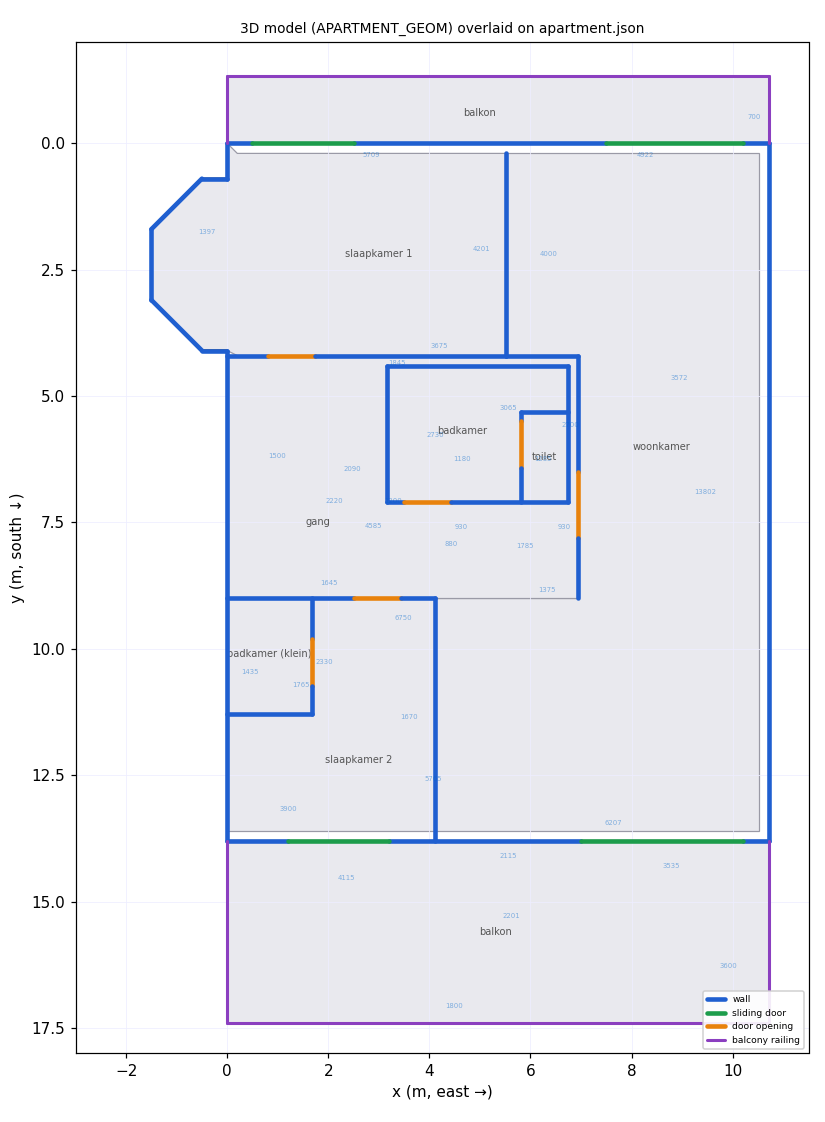
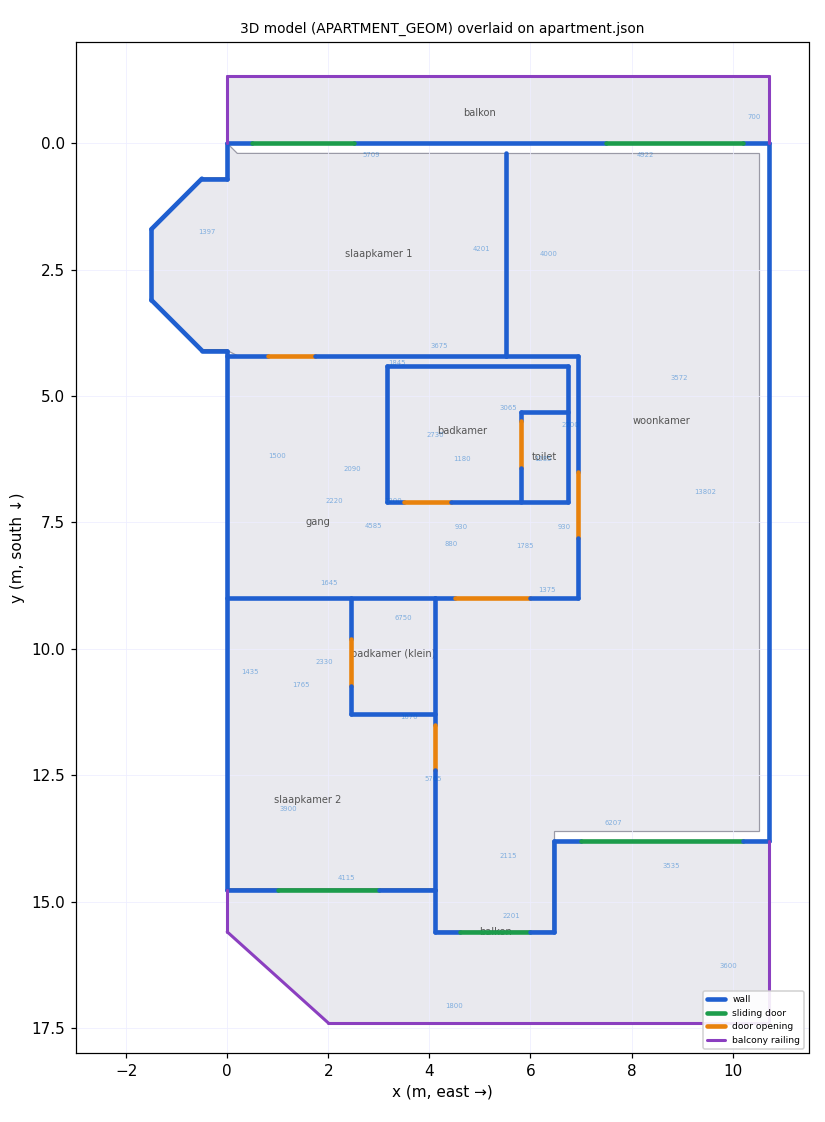
Rebuild south from owner's measurements: stepped facade, deeper slaapk2, east en-suite, trapezoid balcony with SW chamfer
Per owner feedback + numbers:
- Slaapkamer 2 = 4.115 x 5.765 m (deep "long part", to z=14.765).
- South facade is STEPPED: slaapk2 (z=14.765) + kitchen (z=15.60, ~1.8 m deeper
  than the 13.8 woonkamer); step near the kitchen island at x~6.46.
- En-suite (badkamer klein) moved to the NE corner of slaapk2 (x 2.445..4.115),
  beside the living-room door so the bathroom partly blocks it.
- Slaapk2 <-> living-room door in the x=4.115 wall; kitchen/gang opening at z=9.
- Balcony is now a trapezoid following the stepped facade, with the SW chamfer.
- Repositioned slaapk2/en-suite/kitchen lights, furniture and the painting.

Synced index.html (walls, ROOMS, floors, lights, furniture), render-floorplan.py
(envelope + room polygons) and apartment.json. plan-overlay PASS (60 segments /
106 endpoints within 0.05 m).

diff --git a/index.html b/index.html
@@ -246,16 +246,22 @@ const APARTMENT_GEOM = [
   { kind: 'sliding', x1:  7.50, z1:  0.00, x2: 10.20, z2:  0.00 }, // woonkamer
   // --- East facade (no openings)
   { kind: 'wall',    x1: 10.72, z1:  0.00, x2: 10.72, z2: 13.802 },
-  // --- South facade — sliding doors at slaapk2 (x∈[1.20,3.20]) and woonkamer (x∈[7.00,10.20])
-  { kind: 'wall',    x1: 10.72, z1: 13.802, x2: 10.20, z2: 13.802 },
-  { kind: 'wall',    x1:  7.00, z1: 13.802, x2:  3.20, z2: 13.802 },
-  { kind: 'wall',    x1:  1.20, z1: 13.802, x2:  0.00, z2: 13.802 },
-  { kind: 'sliding', x1:  7.00, z1: 13.802, x2: 10.20, z2: 13.802 }, // woonkamer
-  { kind: 'sliding', x1:  1.20, z1: 13.802, x2:  3.20, z2: 13.802 }, // slaapk2
-  // --- West facade. The apartment is ~10.7 m wide: the west outer wall runs
-  // straight at x=0 from the south facade up to the NW zigzag (the model's old
-  // x=-2.30 west bulge/balcony was page margin in the scan, not apartment).
-  { kind: 'wall',    x1:  0.00, z1: 13.802, x2:  0.00, z2:  4.10 },
+  // --- South facade (STEPPED): slaapk2 + kitchen are ~1.8 m deeper (z~15.6) than
+  // the woonkamer (z~13.8); the facade steps near the kitchen island at x~6.46.
+  // Sliding doors give balcony access from slaapk2, the kitchen and the woonkamer.
+  { kind: 'wall',    x1:  0.00, z1: 14.765, x2:  1.00, z2: 14.765 }, // slaapk2 south (deep)
+  { kind: 'sliding', x1:  1.00, z1: 14.765, x2:  3.00, z2: 14.765 },
+  { kind: 'wall',    x1:  3.00, z1: 14.765, x2:  4.115, z2: 14.765 },
+  { kind: 'wall',    x1:  4.115,z1: 14.765, x2:  4.115, z2: 15.60 },  // step to kitchen depth
+  { kind: 'wall',    x1:  4.115,z1: 15.60,  x2:  4.60,  z2: 15.60 },  // kitchen south (deepest)
+  { kind: 'sliding', x1:  4.60, z1: 15.60,  x2:  6.00, z2: 15.60 },
+  { kind: 'wall',    x1:  6.00, z1: 15.60,  x2:  6.46, z2: 15.60 },
+  { kind: 'wall',    x1:  6.46, z1: 15.60,  x2:  6.46, z2: 13.802 }, // step up to woonkamer depth
+  { kind: 'wall',    x1:  6.46, z1: 13.802, x2:  7.00, z2: 13.802 }, // woonkamer south (shallow)
+  { kind: 'sliding', x1:  7.00, z1: 13.802, x2: 10.20, z2: 13.802 },
+  { kind: 'wall',    x1: 10.20, z1: 13.802, x2: 10.72, z2: 13.802 },
+  // --- West facade: x=0 from the (deep) slaapk2 SW corner up to the NW zigzag.
+  { kind: 'wall',    x1:  0.00, z1: 14.765, x2:  0.00, z2:  4.10 },
   // --- NW zigzag (six segments around the lift-shaft alcove). Step coords
   // aligned to apartment.json nw_zigzag; the 1397 mm PDF callout labels the
   // alcove's vertical west face (z 1.70 -> 3.10 = 1.40 m).
@@ -288,18 +294,25 @@ const APARTMENT_GEOM = [
   { kind: 'wall',    x1:  5.818, z1: 5.315, x2:  5.818, z2: 5.50 },
   { kind: 'door',    x1:  5.818, z1: 5.50,  x2:  5.818, z2: 6.43 },
   { kind: 'wall',    x1:  5.818, z1: 6.43,  x2:  5.818, z2: 7.10 },
-  // --- Slaapk2 north wall (shared with gang) — door to gang at x∈[2.50, 3.43]
-  { kind: 'wall',    x1:  0.00,  z1: 9.00,  x2:  2.50,  z2: 9.00 },
-  { kind: 'door',    x1:  2.50,  z1: 9.00,  x2:  3.43,  z2: 9.00 },
-  { kind: 'wall',    x1:  3.43,  z1: 9.00,  x2:  4.115, z2: 9.00 },
-  // --- Slaapk2 east wall (party wall with woonkamer)
-  { kind: 'wall',    x1:  4.115, z1: 9.00,  x2:  4.115, z2: 13.802 },
-  // --- Badkamer klein (en-suite) — NW corner of slaapk2, x∈[0,1.67] z∈[9,11.29];
-  //     door from the bedroom on its east wall at z∈[9.80, 10.73].
-  { kind: 'wall',    x1:  1.67,  z1:  9.00,  x2:  1.67, z2:  9.80 },
-  { kind: 'door',    x1:  1.67,  z1:  9.80,  x2:  1.67, z2: 10.73 },
-  { kind: 'wall',    x1:  1.67,  z1: 10.73,  x2:  1.67, z2: 11.29 },
-  { kind: 'wall',    x1:  0.00,  z1: 11.29,  x2:  1.67, z2: 11.29 },
+  // --- Slaapk2 north wall (z=9, shared with gang); en-suite is in the NE corner.
+  { kind: 'wall',    x1:  0.00,  z1: 9.00,  x2:  4.115, z2: 9.00 },
+  // --- Kitchen/living-room north wall (z=9) with the wide opening from the gang
+  //     (your "door to the living room", x~4.5-6.0).
+  { kind: 'wall',    x1:  4.115, z1: 9.00,  x2:  4.50,  z2: 9.00 },
+  { kind: 'door',    x1:  4.50,  z1: 9.00,  x2:  6.00,  z2: 9.00 },
+  { kind: 'wall',    x1:  6.00,  z1: 9.00,  x2:  6.948, z2: 9.00 },
+  // --- Slaapk2 east wall (slaapk2 <-> living room), z 9..14.765. Door to the
+  //     living room at z 11.5..12.4, right beside the en-suite so the bathroom
+  //     partly blocks it (as you described).
+  { kind: 'wall',    x1:  4.115, z1: 9.00,   x2:  4.115, z2: 11.50 },
+  { kind: 'door',    x1:  4.115, z1: 11.50,  x2:  4.115, z2: 12.40 },
+  { kind: 'wall',    x1:  4.115, z1: 12.40,  x2:  4.115, z2: 14.765 },
+  // --- Badkamer klein (en-suite) — NE corner of slaapk2, x∈[2.445,4.115] z∈[9,11.29];
+  //     door from the bedroom on its west wall at z∈[9.80,10.73].
+  { kind: 'wall',    x1:  2.445, z1:  9.00,  x2:  2.445, z2:  9.80 },
+  { kind: 'door',    x1:  2.445, z1:  9.80,  x2:  2.445, z2: 10.73 },
+  { kind: 'wall',    x1:  2.445, z1: 10.73,  x2:  2.445, z2: 11.29 },
+  { kind: 'wall',    x1:  2.445, z1: 11.29,  x2:  4.115, z2: 11.29 },
   // --- Woonkamer west wall — open passage to gang at z∈[6.50, 7.80]
   { kind: 'wall',    x1:  6.948, z1: 4.20,  x2:  6.948, z2: 6.50 },
   { kind: 'door',    x1:  6.948, z1: 6.50,  x2:  6.948, z2: 7.80 },
@@ -309,10 +322,11 @@ const APARTMENT_GEOM = [
   { kind: 'railing', x1:  0.00,  z1: -1.331, x2: 10.72, z2: -1.331 }, // outer (N)
   { kind: 'railing', x1:  0.00,  z1:  0.00,  x2:  0.00, z2: -1.331 }, // west
   { kind: 'railing', x1: 10.72,  z1:  0.00,  x2: 10.72, z2: -1.331 }, // east
-  // --- Bottom balkon railings
-  { kind: 'railing', x1:  0.00,  z1: 17.402, x2: 10.72, z2: 17.402 }, // outer (S)
-  { kind: 'railing', x1:  0.00,  z1: 13.802, x2:  0.00, z2: 17.402 }, // west
+  // --- Bottom balkon railings (trapezoid following the stepped facade + SW chamfer)
   { kind: 'railing', x1: 10.72,  z1: 13.802, x2: 10.72, z2: 17.402 }, // east
+  { kind: 'railing', x1: 10.72,  z1: 17.402, x2:  2.00, z2: 17.402 }, // south
+  { kind: 'railing', x1:  2.00,  z1: 17.402, x2:  0.00, z2: 15.60 },  // SW chamfer
+  { kind: 'railing', x1:  0.00,  z1: 15.60,  x2:  0.00, z2: 14.765 }, // west
 ];
 
 /* ===== ROOMS =====
@@ -326,7 +340,7 @@ const ROOMS = [
   { id: 'toilet',    name: 'Toilet',            kind: 'tegel', rects: [
       { x1: 5.818, z1: 5.315, x2: 6.748, z2: 7.10 } ] },
   { id: 'badkklein', name: 'Badkamer (klein)',  kind: 'tegel', rects: [
-      { x1: 0.00, z1: 9.00, x2: 1.67, z2: 11.29 } ] },
+      { x1: 2.445, z1: 9.00, x2: 4.115, z2: 11.29 } ] },
   { id: 'badkamer',  name: 'Badkamer',          kind: 'tegel', rects: [
       { x1: 3.158, z1: 4.40,  x2: 6.748, z2: 5.315 },
       { x1: 3.158, z1: 5.315, x2: 5.818, z2: 7.10 } ] },
@@ -335,8 +349,8 @@ const ROOMS = [
       { x1: -0.50, z1: 0.70,  x2: 0.00,  z2: 4.10 },
       { x1: -1.50, z1: 1.70,  x2: -0.50, z2: 3.10 } ] },
   { id: 'slaapk2',   name: 'Slaapkamer 2',      kind: 'hout',  rects: [
-      { x1: 1.67, z1: 9.00,  x2: 4.115, z2: 13.602 },
-      { x1: 0.00, z1: 11.29, x2: 1.67,  z2: 13.602 } ] },
+      { x1: 0.00,  z1: 9.00,  x2: 2.445, z2: 14.765 },
+      { x1: 2.445, z1: 11.29, x2: 4.115, z2: 14.765 } ] },
   { id: 'gang',      name: 'Gang',              kind: 'hout',  rects: [
       { x1: 0.00, z1: 4.20,  x2: 6.948, z2: 4.40 },
       { x1: 0.00, z1: 4.40,  x2: 3.158, z2: 7.10 },
@@ -345,11 +359,14 @@ const ROOMS = [
   { id: 'woonkamer', name: 'Woonkamer',         kind: 'hout',  rects: [
       { x1: 5.52,  z1: 0.20,  x2: 10.52, z2: 4.20 },
       { x1: 6.948, z1: 4.20,  x2: 10.52, z2: 9.00 },
-      { x1: 4.115, z1: 9.00,  x2: 10.52, z2: 13.602 } ] },
+      { x1: 4.115, z1: 9.00,  x2: 6.46,  z2: 15.60 },   // deep kitchen
+      { x1: 6.46,  z1: 9.00,  x2: 10.52, z2: 13.602 } ] }, // shallow living
   { id: 'balkon_n',  name: 'Balkon (noord)',    kind: 'steen', rects: [
       { x1: 0.00,  z1: -1.331, x2: 10.72, z2: 0.00 } ] },
   { id: 'balkon_z',  name: 'Balkon (zuid)',     kind: 'steen', rects: [
-      { x1: 0.00, z1: 13.802, x2: 10.72, z2: 17.402 } ] },
+      { x1: 0.00,  z1: 14.765, x2: 4.115, z2: 17.402 },
+      { x1: 4.115, z1: 15.60,  x2: 6.46,  z2: 17.402 },
+      { x1: 6.46,  z1: 13.802, x2: 10.72, z2: 17.402 } ] },
 ];
 ROOMS.forEach(r => { r.walls = []; r.floorMeshes = []; });
 
@@ -1688,16 +1705,16 @@ function placeFurniture() {
   // === Toilet (inside badkamer SE: x∈[5.818, 6.748], z∈[5.315, 7.10])
   addToiletBowl(6.28, 6.50, Math.PI);
 
-  // === Slaapkamer 2 (x∈[0, 4.115], z∈[9.00, 13.602]); en-suite in the NW corner
-  // Double bed against the east wall, head pointing east
-  addBed(3.00, 11.60, -Math.PI / 2, 2.00, 1.60);
-  // Wardrobe along the south wall, west of the sliding door (facing north)
-  addWardrobe(0.80, 13.40, Math.PI, 1.50, 0.55);
+  // === Slaapkamer 2 (x∈[0, 4.115], z∈[9.00, 14.77]); en-suite in the NE corner
+  // Double bed against the west wall, head pointing west
+  addBed(1.10, 13.10, Math.PI / 2, 2.00, 1.60);
+  // Wardrobe along the south wall (facing north)
+  addWardrobe(1.30, 14.40, Math.PI, 1.50, 0.55);
 
-  // === Badkamer klein (en-suite, NW of slaapk2, x∈[0, 1.67], z∈[9.00, 11.29])
-  addShowerStall(0.45, 9.50, 0, 0.90, 0.90);
-  addSink(1.45, 10.00, -Math.PI / 2, 0.50);
-  addToiletBowl(0.80, 10.90, Math.PI);
+  // === Badkamer klein (en-suite, NE of slaapk2, x∈[2.445, 4.115], z∈[9.00, 11.29])
+  addShowerStall(2.90, 9.50, 0, 0.90, 0.90);
+  addSink(3.70, 10.00, Math.PI / 2, 0.50);
+  addToiletBowl(3.10, 10.90, Math.PI);
 
   // === Woonkamer (L-shape) ===
   // Sofa along east wall facing west, in the north strip
@@ -1737,11 +1754,11 @@ function setupLights() {
     [ 6.28,  6.21, 0xeef4ff, 0.55, 3],  // toilet
     [ 2.50,  6.50, 0xfff0d0, 0.85, 6],  // gang (center)
     [ 1.50,  7.50, 0xfff0d0, 0.75, 5],  // gang (west arm)
-    [ 2.80, 11.50, 0xfff0d0, 0.85, 6],  // slaapkamer 2
-    [ 0.80, 10.10, 0xeef4ff, 0.55, 3],  // badkamer klein (en-suite)
+    [ 1.50, 12.80, 0xfff0d0, 0.85, 6],  // slaapkamer 2
+    [ 3.20, 10.10, 0xeef4ff, 0.55, 3],  // badkamer klein (en-suite, NE)
     [ 8.00,  2.20, 0xfff0d0, 0.95, 7],  // woonkamer north strip
     [ 8.50,  6.50, 0xfff0d0, 0.95, 7],  // woonkamer middle (dining)
-    [ 6.50, 11.20, 0xfff0d0, 0.95, 7],  // woonkamer south (kitchen)
+    [ 5.30, 13.00, 0xfff0d0, 0.95, 7],  // woonkamer south (kitchen, deep)
     [ 8.50, 11.50, 0xfff0d0, 0.95, 7],  // woonkamer south (east)
   ];
   for (const [x, z, color, intensity, range] of lights) {
@@ -2028,7 +2045,7 @@ function placePaintings() {
     { wx: 10.62, wz:  6.50, ry: -Math.PI / 2 },   // woonkamer east facade, middle
     { wx: 10.62, wz: 11.50, ry: -Math.PI / 2 },   // woonkamer east facade, south extension
     { wx:  5.00, wz: 13.70, ry: Math.PI },        // woonkamer south facade (north-facing)
-    { wx:  4.02, wz: 10.20, ry: -Math.PI / 2 },   // slaapk2 east wall, faces west into the room
+    { wx:  4.02, wz: 13.50, ry: -Math.PI / 2 },   // slaapk2 east wall (bedroom), faces west
     { wx:  5.20, wz:  7.20, ry: 0 },              // bathroom south wall (south-facing into gang)
   ];
 

diff --git a/tools/render-floorplan.py b/tools/render-floorplan.py
@@ -109,7 +109,11 @@ def envelope():
     # balconies and the NW alcove. The west outer wall runs straight at x=0 from
     # the south facade up to the NW zigzag. (The old x=-2.30 west bulge was scan
     # page-margin, not apartment.)
-    pts = [[0.0, 0.0], [10.72, 0.0], [10.72, 13.802], [0.0, 13.802], [0.0, 4.10]]
+    # South facade is STEPPED: woonkamer at z=13.802, kitchen deeper at z=15.60,
+    # slaapkamer 2 at z=14.765. West wall up to the NW zigzag.
+    pts = [[0.0, 0.0], [10.72, 0.0], [10.72, 13.802],
+           [6.46, 13.802], [6.46, 15.60], [4.115, 15.60], [4.115, 14.765],
+           [0.0, 14.765], [0.0, 4.10]]
     pts.extend(reversed(zig))   # zigzag back up to (0, 0)
     return pts
 
@@ -142,14 +146,16 @@ def rooms():
     w = [(5.52, 0.20),          # NW: meets slaapk1 east wall at top facade
          (10.52, 0.20),         # NE corner — top facade interior
          (10.52, 13.602),       # SE corner — east facade interior
-         (4.115, 13.602),       # SW of south extension — meets slaapk2 SE corner
-         (4.115, 9.00),         # NW of south extension — meets slaapk2 NE corner
-         (6.948, 9.00),         # east to woonkamer west wall (= gang east edge)
-         (6.948, 4.20),         # up alongside bathroom block to slaapk1 south
+         (6.46, 13.602),        # woonkamer south (shallow) west to the step
+         (6.46, 15.60),         # step down to the deep kitchen
+         (4.115, 15.60),        # kitchen south (deep) west to slaapk2 wall
+         (4.115, 9.00),         # up the slaapk2/kitchen wall to z=9
+         (6.948, 9.00),         # east along the gang boundary
+         (6.948, 4.20),         # up the woonkamer west wall
          (5.52, 4.20),          # west back to slaapk1 east wall
          ]
     R.append({"name": "woonkamer", "label": "67,11 m²", "fill": "#e8f4ff",
-              "polygon": w, "centroid": (8.6, 6.0)})
+              "polygon": w, "centroid": (8.6, 5.5)})
 
     # Gang — fills the entire central strip between slaapk1 (north) and
     # slaapk2 (south), from west facade to woonkamer west wall. The
@@ -184,14 +190,14 @@ def rooms():
               "polygon": t, "centroid": (6.28, 6.21)})
 
     # slaapkamer 2 — 4.115 × 4.593, SW area
-    s2 = [(0.00, 9.00), (4.115, 9.00), (4.115, 13.602), (0.00, 13.602)]
+    s2 = [(0.00, 9.00), (4.115, 9.00), (4.115, 14.765), (0.00, 14.765)]
     R.append({"name": "slaapkamer 2", "label": "18,90 m²", "fill": "#fff4e6",
-              "polygon": s2, "centroid": (2.60, 12.20)})
+              "polygon": s2, "centroid": (1.60, 13.00)})
 
-    # badkamer (klein) — en-suite in slaapk2's NW corner
-    bk = [(0.00, 9.00), (1.67, 9.00), (1.67, 11.29), (0.00, 11.29)]
+    # badkamer (klein) — en-suite in slaapk2's NE corner (by the living-room door)
+    bk = [(2.445, 9.00), (4.115, 9.00), (4.115, 11.29), (2.445, 11.29)]
     R.append({"name": "badkamer (klein)", "label": "3,81 m²", "fill": "#eaf6ec",
-              "polygon": bk, "centroid": (0.83, 10.10)})
+              "polygon": bk, "centroid": (3.28, 10.10)})
 
     # balkon (top) — spans FULL apartment top facade width (user-confirmed)
     bt = [(0.00, -1.331), (10.72, -1.331), (10.72, 0.0), (0.00, 0.0)]
@@ -199,7 +205,9 @@ def rooms():
               "polygon": bt, "centroid": (5.0, -0.6)})
 
     # balkon (bottom) — spans FULL south facade width (user-confirmed)
-    bb = [(0.00, 13.802), (10.72, 13.802), (10.72, 17.402), (0.00, 17.402)]
+    bb = [(0.00, 14.765), (4.115, 14.765), (4.115, 15.60), (6.46, 15.60),
+          (6.46, 13.802), (10.72, 13.802), (10.72, 17.402), (2.00, 17.402),
+          (0.00, 15.60)]
     R.append({"name": "balkon", "label": "24,03 m² (labelled)", "fill": "#dde6dc",
               "polygon": bb, "centroid": (5.30, 15.6)})
 
